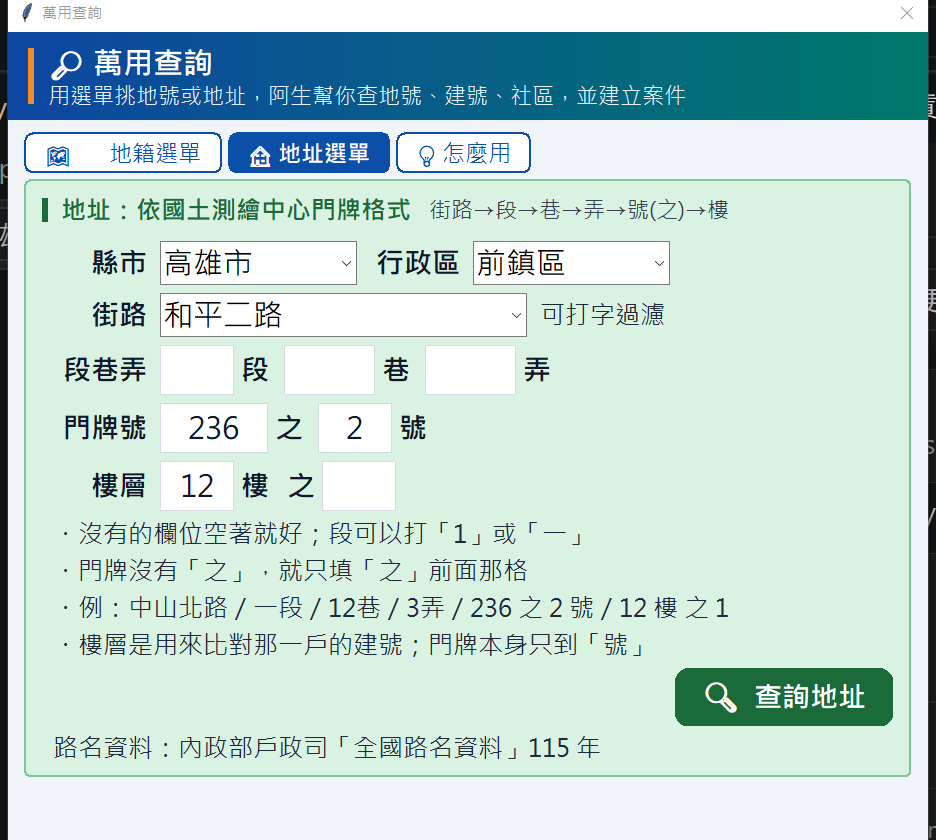
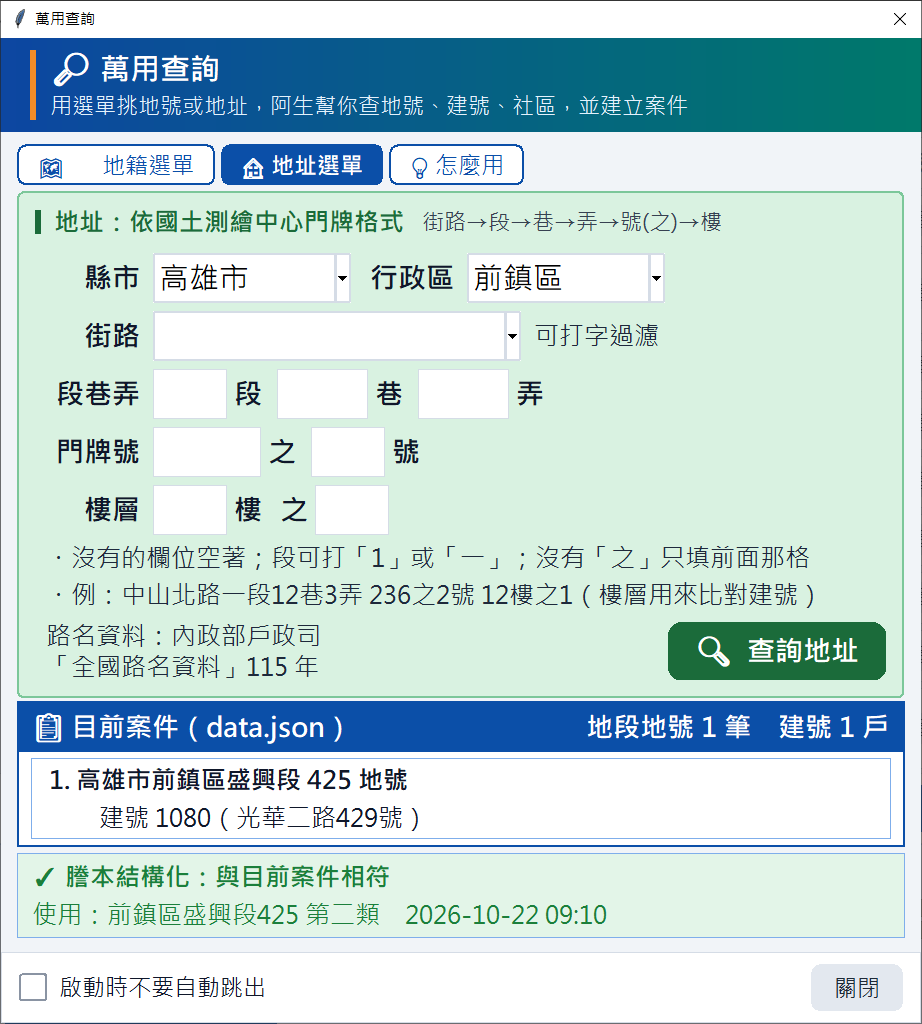
使用說明：萬用查詢換新版截圖，新增「目前案件與謄本比對」說明

diff --git a/help.html b/help.html
@@ -205,7 +205,7 @@
 <li><a href="#系統簡介">系統簡介</a></li>
 <li><a href="#安裝說明">安裝與更新說明</a></li>
 <li><a href="#主介面介紹">主介面介紹</a></li>
-<li><a href="#萬用查詢">萬用查詢（打地址／地號，或用選單快速建立案件）</a></li>
+<li><a href="#萬用查詢">萬用查詢（打地址／地號，或用選單快速建立案件；下方看目前案件與謄本比對）</a></li>
 <li><a href="#標題列與檔案位置">標題列與檔案位置說明</a></li>
 <li><a href="#子程式運作方式">子程式的運作方式</a></li>
 <li><a href="#買賣案件完整操作流程">買賣案件完整操作流程</a></li>
@@ -388,7 +388,19 @@
 <li><strong>地籍選單</strong>：按輸入欄右邊「<strong>☰ 選單</strong>」（或輸入欄空白時按 Enter），在「地籍選單」依序選 <strong>縣市 → 行政區 → 段小段 → 地號</strong>。段小段可打字過濾（例如打「竹北段一」）。</li>
 <li><strong>地址選單</strong>：在「地址選單」依序選 <strong>縣市 → 行政區 → 街路</strong>，再填 段／巷／弄／門牌號／樓層。欄位依<strong>國土測繪中心的門牌格式</strong>（例如 <code>236之2號</code>、段寫國字「一段」）；路名來自內政部戶政司「全國路名資料」。</li>
 </ol>
-<p><img src="https://fyy-l8a3.onrender.com/help_img/quick_panel_lot.png" alt="萬用查詢-地籍選單" style="max-width:520px; width:100%; border:1px solid #ccc; border-radius:6px;" /></p><p><img src="https://fyy-l8a3.onrender.com/help_img/quick_panel_addr.png" alt="萬用查詢-地址選單" style="max-width:520px; width:100%; border:1px solid #ccc; border-radius:6px;" /></p>
+<p><img src="https://fyy-l8a3.onrender.com/help_img/quick_panel_lot.png?v=119" alt="萬用查詢-地籍選單" style="max-width:520px; width:100%; border:1px solid #ccc; border-radius:6px;" /></p><p><img src="https://fyy-l8a3.onrender.com/help_img/quick_panel_addr.png?v=119" alt="萬用查詢-地址選單" style="max-width:520px; width:100%; border:1px solid #ccc; border-radius:6px;" /></p>
+<h3 id="萬用查詢-目前案件">面板下方：目前案件與謄本比對</h3>
+<p>萬用查詢面板的下半部會一直顯示<strong>目前案件</strong>的內容，不用另外開檔案檢查：</p>
+<ul>
+<li><strong>📋 目前案件（data.json）</strong>：藍色標題列右邊顯示「地段地號 N 筆　建號 N 戶」，下面逐筆列出每個地號、底下對到的建號（含門牌）。筆數多時可以捲動。</li>
+<li>要<strong>加地號／建號</strong>：在上面查詢後按「<strong>加入目前案件</strong>」；要<strong>換案件</strong>：按「<strong>建立新案件</strong>」。</li>
+<li><strong>謄本結構化色帶</strong>：自動比對目前載入的謄本結構化資料和案件是不是同一筆：
+<ul>
+<li><span style="color:#1B7F3B;"><strong>綠色「✓ 與目前案件相符」</strong></span>：下面一行會寫用的是哪一份謄本（地號、第幾類、調閱時間），可以直接做土增稅、物件編輯。</li>
+<li><span style="color:#B35400;"><strong>橘色「○ 目前案件還沒做」</strong></span>：調好謄本後，到【謄本與土增稅】做謄本結構化。</li>
+<li><span style="color:#D93025;"><strong>紅色「⚠ 部分對不上／是別的案件」</strong></span>：載入的謄本和案件的地號、建號對不上，請到【謄本與土增稅】重新做結構化。</li>
+</ul></li>
+</ul>
 <h3 id="萬用查詢-多筆">一次查多筆</h3>
 <ul>
 <li>用「<strong>、</strong>」或半形「<strong>,</strong>」分開，後面可只寫號碼：<code>前鎮區竹北段一小段2096、2097、2100-1</code>。</li>
@@ -1335,7 +1347,7 @@
 </ul>
 <hr />
 <p><strong>對應程式版本</strong>：v1.1.8r（2026年10月）</p>
-<p><strong>手冊更新日期</strong>：2026年10月11日</p>
+<p><strong>手冊更新日期</strong>：2026年10月26日</p>
 <p><strong>適用系統</strong>：
 - Windows 10
 - Windows 11</p>
